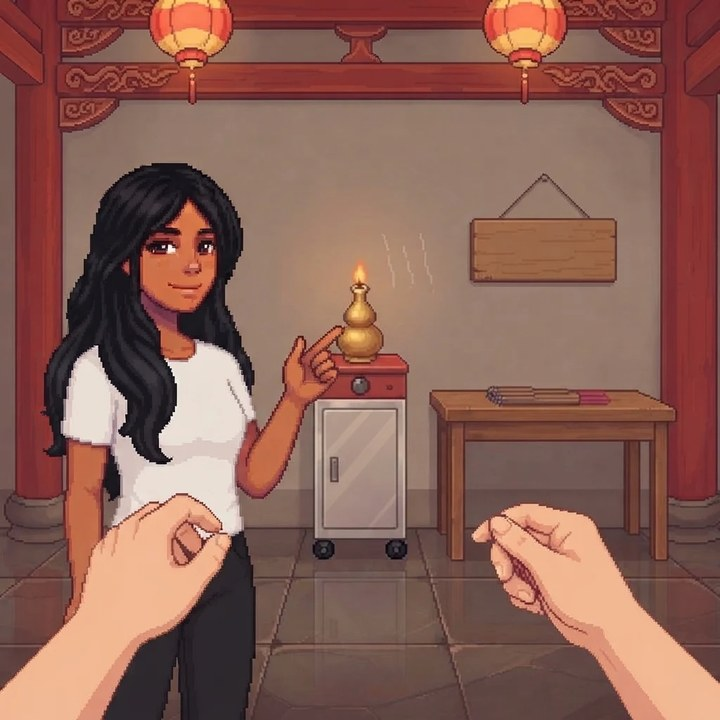
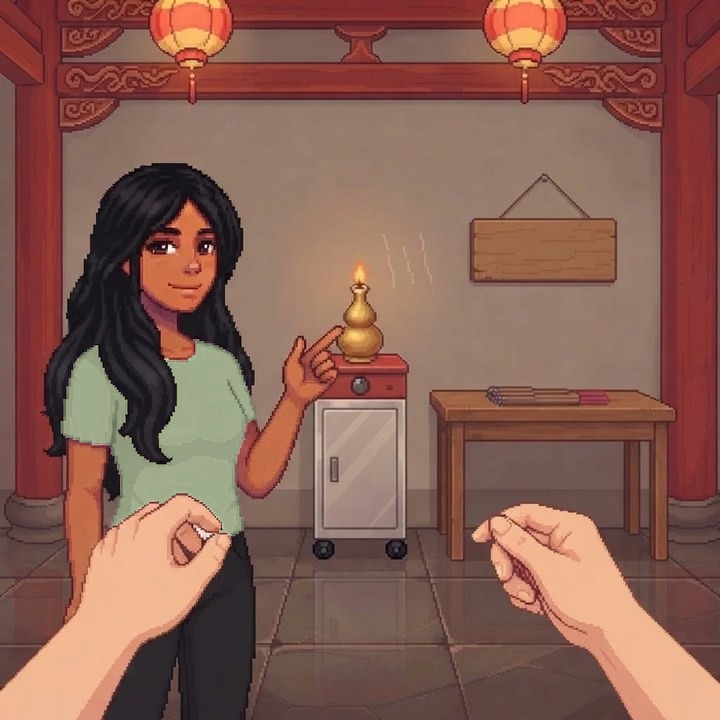
關帝廟：流程與台詞調整、新增過場圖與側殿圖，拜天公改成圖片卡片選項
- 開場改成約在廟門口；Ami 新台詞（進門、點香、拜拜順序）
- 新圖：gate_in／fire_out／side；start、gate_in 的 Ami 上衣統一為淺綠色
- HEAVEN 選項改為三張圖片卡（天公爐／大殿／側殿），引擎新增 optionImage 選項

Claude-Session: https://claude.ai/code/session_01VBTS7pLUuiZLT2hrjERjbU

Changed region(s): [[0.0611, 0.4583, 0.3667, 0.7639]]

diff --git a/games/guandi/index.html b/games/guandi/index.html
@@ -86,6 +86,10 @@
   .slip .poem { font-size: 20px; }
   .form-row { display: flex; gap: 10px; padding: 3px 0; font-size: 18px; }
   .form-row b { min-width: 4.2em; color: var(--muted); font-weight: 500; }
+#options-area.cards { display: flex; flex-direction: column; gap: 10px; }
+#options-area .opt.card { display: flex; align-items: center; gap: 12px; padding: 6px; text-align: left; }
+#options-area .opt.card img { width: 96px; height: 96px; flex: 0 0 96px; object-fit: cover; border-radius: 8px; image-rendering: pixelated; }
+#options-area .opt.card span { flex: 1; }
 </style></head>
 <body>
 
@@ -291,7 +295,7 @@ const VOCAB = {
   START: [['關帝廟', 'templo de Guan Di', 'Guan Di temple'], ['關公', 'Guan Gong (Guan Yu)', 'Guan Gong (Guan Yu)'], ['保佑', 'proteger, bendecir', 'bless, protect'], ['不順利', 'que no va bien', 'not going smoothly']],
   GATE: [['龍邊', 'lado del dragón (derecha)', 'dragon side (right)'], ['虎邊', 'lado del tigre (izquierda)', 'tiger side (left)'], ['龍進虎出', 'entrar por el dragón, salir por el tigre', 'enter by the dragon, exit by the tiger'], ['告示牌', 'letrero', 'sign']],
   FIRE: [['點火處', 'lugar para encender el incienso', 'place to light incense'], ['一炷香', 'una varilla de incienso', 'a stick of incense'], ['搧', 'abanicar', 'fan'], ['晃', 'agitar suavemente', 'shake gently'], ['吹', 'soplar', 'blow']],
-  HEAVEN: [['天公爐', 'incensario del Cielo', 'Heaven’s incense burner'], ['天公', 'el Emperador del Cielo', 'the Heavenly Emperor'], ['先……再……', 'primero… después…', 'first… then…'], ['拜', 'rendir culto, rezar', 'worship, pray']],
+  HEAVEN: [['天公爐', 'incensario del Cielo', 'Heaven’s incense burner'], ['天公', 'el Emperador del Cielo', 'the Heavenly Emperor'], ['先……再……', 'primero… después…', 'first… then…'], ['拜', 'rendir culto, rezar', 'worship, pray'], ['大殿', 'salón principal', 'main hall'], ['側殿', 'salón lateral', 'side hall']],
   MAIN: [['關聖帝君', 'Guan Shengdijun (Guan Gong)', 'Lord Guan (Guan Gong)'], ['姓名', 'nombre', 'name'], ['住在', 'vivir en', 'live at'], ['保佑', 'proteger, bendecir', 'bless, protect'], ['平安', 'paz y seguridad', 'safe and sound']],
   THROW: [['擲筊', 'lanzar los jiaobei', 'throw the moon blocks'], ['筊杯', 'jiaobei (bloques de madera)', 'moon blocks'], ['聖筊', 'sí (una plana, una redonda)', 'yes (one flat, one round)'], ['笑筊', 'sonrisa (dos planas)', 'smile (both flat)'], ['陰筊', 'no (dos redondas)', 'no (both round)'], ['連續', 'seguidos', 'in a row']],
   DRAW: [['籤筒', 'cilindro con varillas', 'fortune stick holder'], ['抽籤', 'sacar una varilla', 'draw a fortune stick'], ['求籤', 'pedir una suerte', 'ask for a fortune']],
@@ -318,7 +322,7 @@ const STAGE = {
 
 /* 過場按鈕上的情境句：key 是下一關 */
 const NEXT_LABEL = {
-  GATE: '走到廟門口', FIRE: '去點火處拿香', HEAVEN: '走到天公爐', MAIN: '走進主殿', THROW: '拿起筊杯', DRAW: '走到籤筒前', SLIP_NUM: '走到籤櫃',
+  GATE: '走到廟門口', FIRE: '去點香處拿香點香', HEAVEN: '走到天公爐', MAIN: '走進主殿', THROW: '拿起筊杯', DRAW: '走到籤筒前', SLIP_NUM: '走到籤櫃',
   READ: '看籤詩', REGISTER: '走到登記處', PAY: '付錢', PAY_FIX: '聽廟公重算', CHANGE: '等找錢', AMULET: '看旁邊的桌子', GUOLU: '走到香爐前', EXIT: '準備離開', END: '走出廟門'
 };
 
@@ -357,10 +361,11 @@ const Game = defineGame({
   att: {},                       // 每一關選了幾次（第一次就對才給綠卡）
   cash: null,
   ti: 0, streak: 0, throwWrong: false,   // 擲筊：第幾次、連續幾個聖筊、這一次有沒有選錯過
-  EXTRA_IMAGES: ['images/gate_in.jpg'],   // imageFor() 才會用到的圖，也先載好
-  /* 過場頁預設用上一關的圖；進廟門的過場旁白在說「前面是香案、點火處」，所以改用廟裡點火處、Ami 在旁邊的圖 */
+  EXTRA_IMAGES: ['images/gate_in.jpg', 'images/fire_out.jpg', 'images/side.jpg'],   // imageFor() 才會用到的圖，也先載好
+  /* 過場頁預設用上一關的圖；旁白已經到下一個畫面時，改用符合旁白的圖：進廟門（點火處、Ami 在旁邊）、熄火後（香頭只剩灰） */
   imageFor() {
     if (this._transMode && this._trans && this._trans.from === 'GATE' && this._trans.to === 'FIRE') return ['images/gate_in.jpg', '🕯'];
+    if (this._transMode && this._trans && this._trans.from === 'FIRE' && this._trans.to === 'HEAVEN') return ['images/fire_out.jpg', '🔥'];   // 火熄了：香頭只剩灰、還在冒煙
   },
   onStart() { this.updateCash(); },
   updateCash() { document.getElementById('cash-badge').textContent = ''; },
@@ -514,7 +519,7 @@ const Game = defineGame({
         place: 'temple',
         html: () => Game.listHTML(),
         dialogue: () => [
-          narr('你和Ami約在關帝廟門口見面。Ami先到了，她轉過身來看著你。', 'Quedaste con Ami en la entrada del templo de Guan Di. Ella ya llegó y se da la vuelta para mirarte.', 'You arranged to meet Ami at the entrance of the Guan Di temple. She is already there and turns around to look at you.'),
+          narr('你和Ami約在關帝廟門口見面。', 'Quedaste con Ami en la entrada del templo de Guan Di.', 'You arranged to meet Ami at the entrance of the Guan Di temple.'),
           ...Game.amiLines(),
           L('我：好，我們進去吧。', 'Bien, entremos.', "OK, let's go in.")
         ],
@@ -526,13 +531,13 @@ const Game = defineGame({
       GATE: {
         place: 'temple',
         dialogue: () => [narr('廟門有三個門：左邊、右邊，還有中間最大的門。門口有一塊告示牌。', 'La entrada tiene tres puertas: izquierda, derecha y la grande del centro. Hay un letrero en la entrada.', 'The entrance has three doors: left, right, and the big one in the middle. There is a sign at the door.'),
-          ami('我在旁邊，你慢慢來。', 'Estoy a tu lado; tómate tu tiempo.', "I'm right here — take your time.")],
+          ami('你知道要從哪個門進去嗎？', '¿Sabes por qué puerta hay que entrar?', 'Do you know which door we should go in through?')],
         options: () => rotOf(t, ['從右邊的門（龍邊）進去。', '從左邊的門（虎邊）進去。', '從中間的門進去。']),
         next: c => {
           if (c === '從左邊的門（虎邊）進去。') { Game.addMistake(M('虎邊是出口，要從龍邊進去。龍進虎出。', 'El lado del tigre es la salida; se entra por el lado del dragón. Dragón entra, tigre sale.', 'The tiger side is the exit — enter by the dragon side. Dragon in, tiger out.')); return; }
           if (c !== '從右邊的門（龍邊）進去。') { Game.addMistake(M('中間最大的門是給神明走的，我們要從龍邊（右邊）進去。', 'La puerta central es para las deidades; nosotros entramos por el lado del dragón (derecha).', 'The big middle door is for the deities — we enter by the dragon side (right).')); return; }
           goodFirst('GATE', '沒錯！龍進虎出，從龍邊進去。', '¡Exacto! Dragón entra, tigre sale: se entra por el lado del dragón.', 'Right! Dragon in, tiger out — enter by the dragon side.');
-          Game.thought = [narr('你和Ami從右邊的門走進去。前面是香案，旁邊有點火處。', 'Tú y Ami entran por la puerta de la derecha. Al frente hay una mesa de incienso y, al lado, un lugar para encender.', 'You and Ami go in through the right-hand door. Ahead is the incense table, with a lighting spot beside it.'),
+          Game.thought = [narr('你和Ami從右邊的門走進去，然後到了點香的地方。', 'Tú y Ami entran por la puerta de la derecha y llegan al lugar donde se enciende el incienso.', 'You and Ami go in through the right-hand door, and arrive at the place where you light the incense.'),
             ami('我們先去點香吧！', '¡Primero vamos a encender el incienso!', "Let's go light the incense first!")];
           Game.state = 'FIRE';
         }
@@ -542,7 +547,7 @@ const Game = defineGame({
       FIRE: {
         place: 'temple',
         dialogue: () => [narr('你拿了三炷香，在點火處把香點著了。香頭有火。', 'Tomas tres varillas de incienso y las enciendes en el lugar de encendido. Las puntas tienen llama.', 'You take three sticks of incense and light them at the lighting spot. The tips are on fire.'),
-          ami('我也點好了。', 'Yo también ya lo encendí.', "I've lit mine too.")],
+          ami('你的香的火有一點旺喔...該怎麼辦呢？', '¡La llama de tu incienso está un poco fuerte...! ¿Qué hacemos?', 'The flame on your incense is a bit strong... what should we do?')],
         options: () => rotOf(t, [t.fire === 'shake' ? '用手輕輕晃動，把火晃熄。' : '用另一隻手把火搧熄。', '用嘴巴把火吹熄。', '把香頭放在地上踩熄。']),
         next: c => {
           const ok = t.fire === 'shake' ? '用手輕輕晃動，把火晃熄。' : '用另一隻手把火搧熄。';
@@ -561,11 +566,12 @@ const Game = defineGame({
       /* ═══ 先拜天公 ═══ */
       HEAVEN: {
         place: 'temple',
-        dialogue: () => [narr('前面有一個天公爐，裡面是大殿，關公在最裡面。', 'Al frente está el incensario del Cielo; dentro está el salón principal, con Guan Gong al fondo.', 'In front is the Heaven burner; inside is the main hall, with Guan Gong at the back.'),
-          ami('我在這裡等你。', 'Te espero aquí.', "I'll wait right here.")],
-        options: () => rotOf(t, ['先在天公爐拜天公，再進去拜關公。', '直接進去拜關公，不拜天公。', '先拜旁邊的小神明，最後才拜天公。']),
+        dialogue: () => [narr('外面有天公爐，裡面是大殿，旁邊還有側殿。', 'Afuera está el incensario del Cielo, adentro el salón principal, y a un lado hay un salón lateral.', 'Outside is the Heaven burner, inside is the main hall, and beside it there is a side hall.'),
+          ami('我們按照順序來拜拜吧！你知道要先拜什麼嗎？', '¡Vamos a rezar en orden! ¿Sabes a quién hay que rezar primero?', "Let's pay respects in order! Do you know who we should pray to first?")],
+        options: () => rotOf(t, ['天公爐拜天公', '大殿拜關聖帝君', '側殿拜其他神明']),
+        optionImage: o => ({ '天公爐拜天公': 'images/heaven.jpg', '大殿拜關聖帝君': 'images/main.jpg', '側殿拜其他神明': 'images/side.jpg' })[o],
         next: c => {
-          if (c !== '先在天公爐拜天公，再進去拜關公。') { Game.addMistake(c === '直接進去拜關公，不拜天公。' ? M('要先拜天公，再拜主神。', 'Primero se reza al Cielo y después a la deidad principal.', 'Pay respects to Heaven first, then the main deity.') : M('天公是最先拜的，小神明要放到最後。', 'Al Cielo se le reza primero; las deidades menores van al final.', 'Heaven comes first; the minor deities come last.')); return; }
+          if (c !== '天公爐拜天公') { Game.addMistake(c === '大殿拜關聖帝君' ? M('要先拜天公，再拜主神。', 'Primero se reza al Cielo y después a la deidad principal.', 'Pay respects to Heaven first, then the main deity.') : M('天公是最先拜的，其他神明要放到最後。', 'Al Cielo se le reza primero; las demás deidades van al final.', 'Heaven comes first; the other deities come last.')); return; }
           goodFirst('HEAVEN', '沒錯！先拜天公，再拜關公。', '¡Exacto! Primero el Cielo, después Guan Gong.', 'Right! Heaven first, then Guan Gong.');
           Game.thought = [narr('你雙手拿香，向天公拜了三下，把香插進天公爐，再走進大殿。', 'Con ambas manos haces tres reverencias al Cielo, pones el incienso en el incensario y entras al salón principal.', 'With both hands you bow three times to Heaven, place the incense in the burner, and enter the main hall.')];
           Game.state = 'MAIN';

diff --git a/shared/game.js b/shared/game.js
@@ -1502,10 +1502,12 @@ const GameCore = {
     area.innerHTML = '';
     const opts = this._transMode ? [this.transLabel()] : val(cfg.options);
     area.classList.toggle('single', cfg.single ?? (opts.length === 1 || opts.some(o => o.length > 12)));
+    const cardImg = !this._transMode && cfg.optionImage;   // 選項要用圖片卡片時：optionImage(選項) → 圖片路徑
+    if (cardImg) area.classList.add('cards');
     opts.forEach(opt => {
       const btn = document.createElement('button');
-      btn.className = 'opt';
-      btn.innerHTML = this.ruby(opt);
+      btn.className = 'opt' + (cardImg ? ' card' : '');
+      btn.innerHTML = cardImg ? `<img src="${cardImg(opt)}" alt=""><span>${this.ruby(opt)}</span>` : this.ruby(opt);
       btn.onclick = () => this.handleChoice(opt);
       area.appendChild(btn);
     });

diff --git a/tools/oracles/guandi.py b/tools/oracles/guandi.py
@@ -5,7 +5,7 @@ ORACLE = """() => {
     START: '走進關帝廟',
     GATE: '從右邊的門（龍邊）進去。',
     FIRE: t.fire === 'shake' ? '用手輕輕晃動，把火晃熄。' : '用另一隻手把火搧熄。',
-    HEAVEN: '先在天公爐拜天公，再進去拜關公。',
+    HEAVEN: '天公爐拜天公',
     MAIN: `關聖帝君，我是${N}，住在附近。最近不太順利，請您保佑我平安順利。`,
     THROW: () => resOpt(t.seq[Game.ti]),
     DRAW: '搖一搖籤筒，讓一支籤自己掉出來。',
